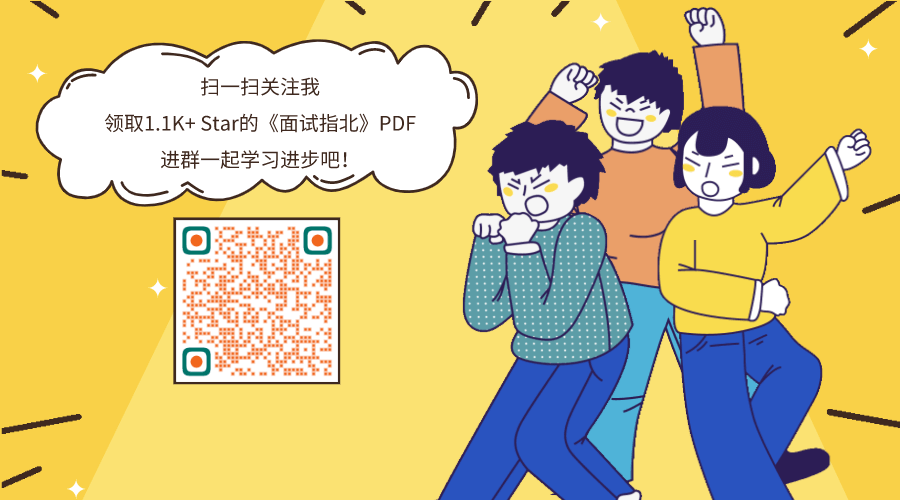
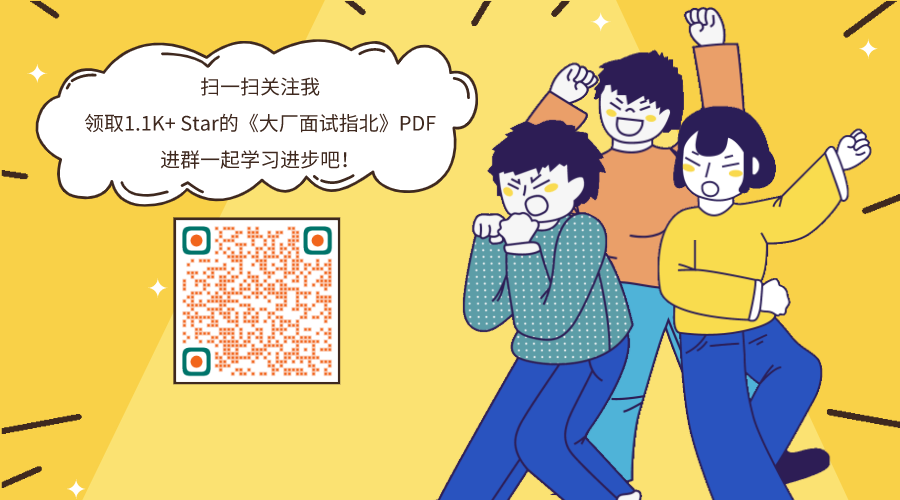
change note

Changed region(s): [[0.0933, 0.21, 0.4978, 0.27]]

diff --git a/index.html b/index.html
@@ -2,7 +2,7 @@
 <html lang="en">
 <head>
   <meta charset="UTF-8">
-  <title>《面试指北》</title>
+  <title>《大厂面试指北》</title>
   <meta http-equiv="X-UA-Compatible" content="IE=edge,chrome=1" />
   <meta name="description" content="Description">
   <meta name="viewport" content="width=device-width, user-scalable=no, initial-scale=1.0, maximum-scale=1.0, minimum-scale=1.0">
@@ -14,7 +14,7 @@
     <script>
     window.$docsify = {
       repo: '',
-      name: '面试指北',
+      name: '大厂面试指北',
       themeColor: '#36bc98',
       loadSidebar: true,
       auto2top: true,

diff --git a/README.md b/README.md
@@ -1,4 +1,4 @@
-# 《面试指北》
+# 《大厂面试指北》
 
 最佳阅读地址：http://notfound9.github.io/interviewGuide/
 
@@ -6,7 +6,7 @@ Github项目主页：https://github.com/NotFound9/interviewGuide
 
 作者博客地址：https://juejin.im/user/5b370a42e51d4558ce5eb969
 
-关注我的公众号"大厂面试"，可以领取《面试指北》的PDF版本，为了方便技术交流，也建了一个技术交流群，欢迎大家扫码加入！（如果入群二维码过期了，也可以扫描[主页中我的微信二维码](http://notfound9.github.io/interviewGuide/#/)，加我微信，我拉你进群）
+关注我的公众号"大厂面试"，可以领取《大厂面试指北》的PDF版本，为了方便技术交流，也建了一个技术交流群，欢迎大家扫码加入！（如果入群二维码过期了，也可以扫描[主页中我的微信二维码](http://notfound9.github.io/interviewGuide/#/)，加我微信，我拉你进群）
 
 ![](http://notfound9.github.io/interviewGuide/static/wdsfsdfsmaster.png)
 
